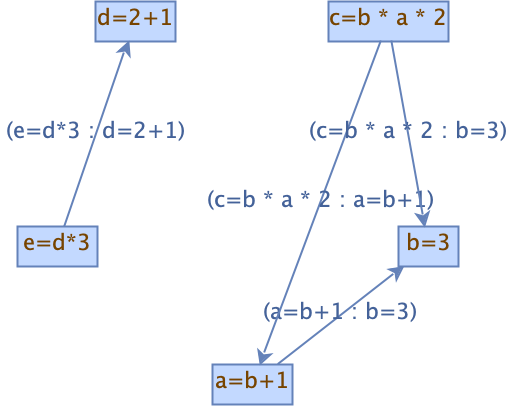
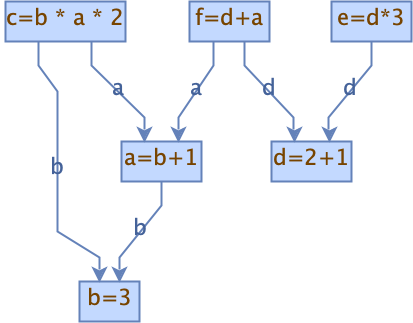
Improvements, readme

diff --git a/src/main/java/net/voldrich/grapheval/Main.java b/src/main/java/net/voldrich/grapheval/Main.java
@@ -1,6 +1,6 @@
 package net.voldrich.grapheval;
 
-import com.mxgraph.layout.mxCircleLayout;
+import com.mxgraph.layout.hierarchical.mxHierarchicalLayout;
 import com.mxgraph.layout.mxIGraphLayout;
 import com.mxgraph.util.mxCellRenderer;
 import org.jgrapht.ext.JGraphXAdapter;
@@ -19,24 +19,6 @@ public class Main {
         evaluateAndDrawGraph();
     }
 
-    private static void evaluateAndDrawGraph() throws IOException {
-        List<ExpressionWrapper> expressions = GraphExpressionEvaluator.fromString(
-                "a=b+1",
-                "b=3",
-                "c= b * a * 2",
-                "d=2+1",
-                "e=d*3"
-        );
-        var graph = GraphExpressionEvaluator.buildDependencyGraph(expressions);
-        var graphAdapter = new JGraphXAdapter<>(graph);
-        mxIGraphLayout layout = new mxCircleLayout(graphAdapter);
-        layout.execute(graphAdapter.getDefaultParent());
-
-        BufferedImage image =  mxCellRenderer.createBufferedImage(graphAdapter, null, 2, Color.WHITE, true, null);
-        File imgFile = new File("graph.png");
-        ImageIO.write(image, "PNG", imgFile);
-    }
-
     private static void evaluateAndPrint() {
         List<ExpressionWrapper> expressions = GraphExpressionEvaluator.fromString(
                 "a=b+1",
@@ -52,4 +34,25 @@ public class Main {
         DecimalFormat df = new DecimalFormat("#.##");
         expressions.forEach(exp -> System.out.printf("%s = %s %n", exp.getName(), df.format(exp.getValue())));
     }
+
+    private static void evaluateAndDrawGraph() throws IOException {
+        List<ExpressionWrapper> expressions = GraphExpressionEvaluator.fromString(
+                "a=b+1",
+                "b=3",
+                "c= b * a * 2",
+                "d=2+1",
+                "e=d*3",
+                "f=d+a"
+        );
+        var graph = GraphExpressionEvaluator.buildDependencyGraph(expressions);
+        var graphAdapter = new JGraphXAdapter<>(graph);
+        mxIGraphLayout layout = new mxHierarchicalLayout(graphAdapter);
+        layout.execute(graphAdapter.getDefaultParent());
+
+        BufferedImage image =  mxCellRenderer.createBufferedImage(graphAdapter, null, 2, Color.WHITE, true, null);
+        File imgFile = new File("graph.png");
+        ImageIO.write(image, "PNG", imgFile);
+    }
+
+
 }

diff --git a/src/main/java/net/voldrich/grapheval/GraphExpressionEvaluator.java b/src/main/java/net/voldrich/grapheval/GraphExpressionEvaluator.java
@@ -40,6 +40,7 @@ public class GraphExpressionEvaluator {
         while (dfsIterator.hasNext()) {
             var expression = dfsIterator.next();
             if (!expression.isEvaluated()) {
+                System.out.println("Evaluating " + expression);
                 valueMap.put(expression.getName(), expression.evaluate(valueMap));
             }
         }
@@ -47,11 +48,12 @@ public class GraphExpressionEvaluator {
         return expressionList;
     }
 
-    public static DefaultDirectedGraph<ExpressionWrapper, DefaultEdge> buildDependencyGraph(List<ExpressionWrapper> expressionList) {
+    public static DefaultDirectedGraph<ExpressionWrapper, DependantVariableEdge> buildDependencyGraph(
+            List<ExpressionWrapper> expressionList) {
         final Map<String, ExpressionWrapper> expressionNameMap = expressionList.stream()
                 .collect(Collectors.toMap(ExpressionWrapper::getName, Function.identity()));
 
-        var directedGraph = new DefaultDirectedGraph<ExpressionWrapper, DefaultEdge>(DefaultEdge.class);
+        var directedGraph = new DefaultDirectedGraph<ExpressionWrapper, DependantVariableEdge>(DependantVariableEdge.class);
         expressionList.forEach(directedGraph::addVertex);
         expressionList.forEach(expression -> {
             if (!expression.getVariables().isEmpty()) {
@@ -60,7 +62,7 @@ public class GraphExpressionEvaluator {
                     if (targetVertex == null) {
                         throw new RuntimeException("Unresolvable variable " + varName);
                     }
-                    directedGraph.addEdge(expression, targetVertex);
+                    directedGraph.addEdge(expression, targetVertex, new DependantVariableEdge(varName));
                 });
             }
         });

diff --git a/src/main/java/net/voldrich/grapheval/DependantVariableEdge.java b/src/main/java/net/voldrich/grapheval/DependantVariableEdge.java
@@ -1,0 +1,20 @@
+package net.voldrich.grapheval;
+
+import org.jgrapht.graph.DefaultEdge;
+
+public class DependantVariableEdge extends DefaultEdge {
+    private String varName;
+
+    public DependantVariableEdge(String varName) {
+        this.varName = varName;
+    }
+
+    public String getVarName() {
+        return varName;
+    }
+
+    @Override
+    public String toString() {
+        return varName;
+    }
+}

diff --git a/README.md b/README.md
@@ -1,1 +1,17 @@
 # GraphExpressionEvaluator
+
+The GraphExpressionEvaluator class is a Java class that provides functionality for 
+evaluating multiple expressions based on dependant variables, where variables can also be expressions. 
+The class is located in the GraphExpressionEvaluator.java file in 
+the src/main/java/net/voldrich/grapheval/ directory of the project. 
+The usage of the class is showcased in the Main.java file in the same directory.
+
+The GraphExpressionEvaluator class provides the following functionality:
+
+- Parsing and evaluation of expressions using EvalEx library
+- Support for variables that can be also expressions
+- Incremental calculation based on variable dependancy graph
+- Cycle detection
+- Using JgraphT library for all graph operations (variable dependencies, cycle detection, leaf to root evaluation)
+
+Simple code, heavy dependencies :).
